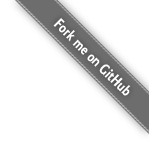
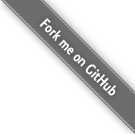
smaller pic res;; move slow getRateLimit out of main page call

Changed region(s): [[0.0, 0.0, 1.0, 1.0]]

diff --git a/src/main/java/de/jetwick/tw/TwitterSearch.java b/src/main/java/de/jetwick/tw/TwitterSearch.java
@@ -150,6 +150,12 @@ public class TwitterSearch implements Serializable {
         return aToken.getScreenName();
     }
 
+    public SolrUser getUser() throws TwitterException {
+        SolrUser user = new SolrUser(twitter.getScreenName());
+        updateUserInfo(Arrays.asList(user));
+        return user;
+    }
+
     public int getSecondsUntilReset() {
         try {
             return twitter.getRateLimitStatus().getSecondsUntilReset();
@@ -159,22 +165,29 @@ public class TwitterSearch implements Serializable {
         }
     }
 
-    public SolrUser getUser() throws TwitterException {
-        SolrUser user = new SolrUser(twitter.getScreenName());
-        updateUserInfo(Arrays.asList(user));
-        return user;
-    }
-
     /**
      * Check with this method otherwise you'll get TwitterException
      */
     public int getRateLimit() {
         try {
-            return twitter.getRateLimitStatus().getRemainingHits();
+            rl = twitter.getRateLimitStatus().getRemainingHits();
+            return rl;
         } catch (TwitterException ex) {
             logger.error("Cannot determine rate limit", ex);
             return 0;
         }
+    }
+    private int rl = -1;
+
+    public int getRateLimitFromCache() {
+        try {
+            if (rl < 0)
+                rl = twitter.getRateLimitStatus().getRemainingHits();
+        } catch (TwitterException ex) {
+            rl = -1;
+        }
+
+        return rl;
     }
 
     public Status getTweet(long id) throws TwitterException {
@@ -383,11 +396,6 @@ public class TwitterSearch implements Serializable {
      * @return the latest tweets of the users
      */
     public Collection<? extends Tweet> updateUserInfo(List<? extends YUser> users) {
-        if (getRateLimit() == 0) {
-            logger.error("No API calls available");
-            return Collections.EMPTY_LIST;
-        }
-
         int counter = 0;
         String arr[] = new String[users.size()];
 
@@ -430,13 +438,8 @@ public class TwitterSearch implements Serializable {
         return Collections.EMPTY_LIST;
     }
 
-    public List<SolrTweet> getTweets(SolrUser user,
-            Collection<SolrUser> users, int twPerPage) throws TwitterException {
-
-        if (getRateLimit() == 0) {
-            logger.error("No API calls available");
-            return Collections.EMPTY_LIST;
-        }
+    public List<SolrTweet> getTweets(SolrUser user, Collection<SolrUser> users,
+            int twPerPage) throws TwitterException {
         Map<String, SolrUser> map = new LinkedHashMap<String, SolrUser>();
         List<SolrTweet> userTweets = getTweets(user, twPerPage);
         users.addAll(map.values());

diff --git a/src/main/java/de/jetwick/tw/MyTweetGrabber.java b/src/main/java/de/jetwick/tw/MyTweetGrabber.java
@@ -81,16 +81,17 @@ public class MyTweetGrabber implements Serializable {
     }
 
     public QueueThread queueTweetPackage() {
-        int rl = tweetSearch.getRateLimit();
-        if (rl <= TwitterSearch.LIMIT)
-            return new QueueThread().doAbort(
-                    new RuntimeException("Couldn't process query (TwitterSearch+Index)."
-                    + " Rate limit is smaller than " + TwitterSearch.LIMIT + ":" + rl));
-
         return new QueueThread() {
 
             @Override
             public void run() {
+                int rl = tweetSearch.getRateLimit();
+                if (rl <= TwitterSearch.LIMIT) {
+                    doAbort(new RuntimeException("Couldn't process query (TwitterSearch+Index)."
+                            + " Rate limit is smaller than " + TwitterSearch.LIMIT + ":" + rl));
+                    return;
+                }
+
                 String name = "";
                 if (tweets == null) {
                     tweets = new LinkedBlockingQueue<SolrTweet>();

diff --git a/src/main/java/de/jetwick/ui/HomePage.java b/src/main/java/de/jetwick/ui/HomePage.java
@@ -94,8 +94,7 @@ public class HomePage extends WebPage {
     HomePage() {
     }
 
-    public HomePage(final PageParameters parameters) {
-        //logger.info("RATE_LIMIT:" + getMySession().getTwitterSearch().getRateLimit());
+    public HomePage(final PageParameters parameters) {        
         String callback = parameters.getString("callback");
         if ("true".equals(callback)) {
             try {
@@ -594,7 +593,7 @@ public class HomePage extends WebPage {
                 // try TWITTER SEARCH
                 users.clear();
                 try {
-                    if (getTwitterSearch().getRateLimit() > TwitterSearch.LIMIT) {
+                    if (getTwitterSearch().getRateLimitFromCache() > TwitterSearch.LIMIT) {
                         if (!userName.isEmpty()) {
                             tweets = getTwitterSearch().getTweets(new SolrUser(userName), users, TWEETS_IF_NO_HIT);
                         } else

diff --git a/src/main/java/de/jetwick/ui/UserPanel.java b/src/main/java/de/jetwick/ui/UserPanel.java
@@ -107,14 +107,14 @@ public class UserPanel extends Panel {
         modalW.setCookieName("user-modal");
 
         // disable js confirmation
-        HeaderContributor c = new HeaderContributor(new IHeaderContributor() {
-
-            @Override
-            public void renderHead(IHeaderResponse response) {
-                response.renderJavascriptReference("Wicket.Window.unloadConfirmation = true;");
-            }
-        });
-        add(c);
+//        HeaderContributor c = new HeaderContributor(new IHeaderContributor() {
+//
+//            @Override
+//            public void renderHead(IHeaderResponse response) {
+//                response.renderJavascriptReference("Wicket.Window.unloadConfirmation = true;");
+//            }
+//        });
+//        add(c);
     }
 
     protected Collection<String> getUserChoices(String input) {
